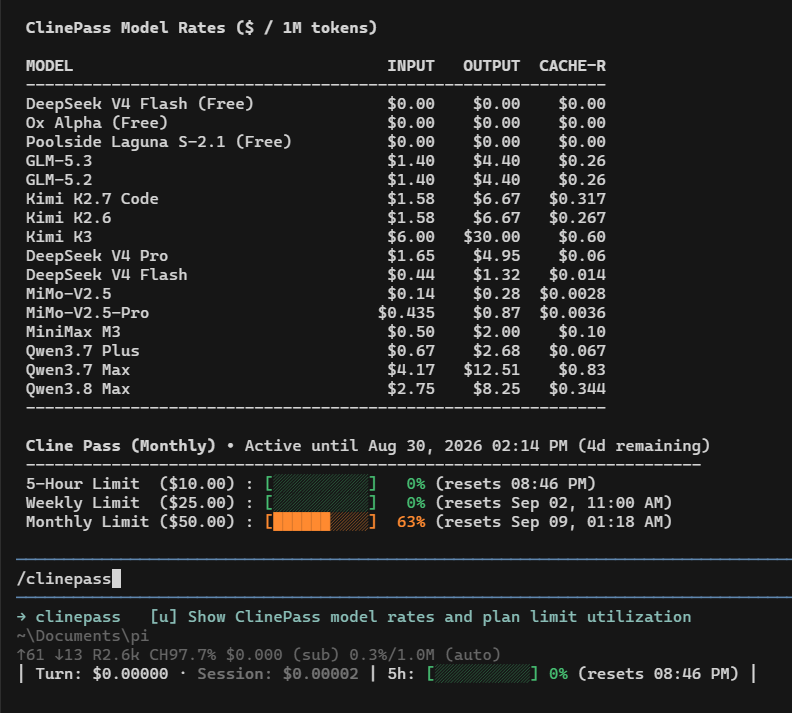
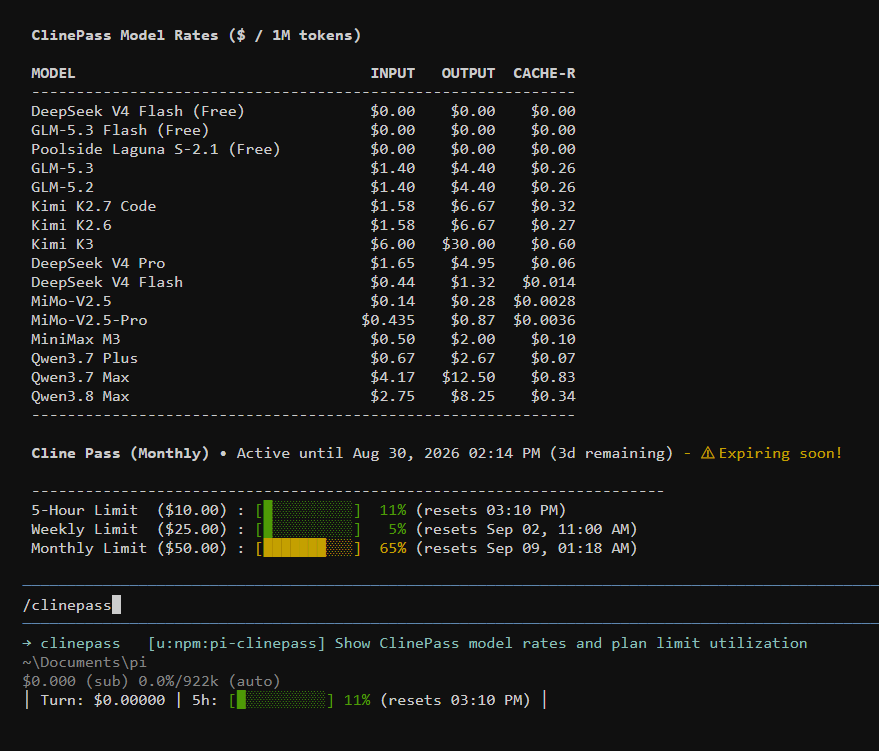
chore: sync catalog

Changed region(s): [[0.0, 0.5863, 1.0, 0.9565], [0.0303, 0.0309, 0.7879, 0.5554]]

diff --git a/src/catalog.ts b/src/catalog.ts
@@ -5,6 +5,10 @@
  * (verified against real usage), not the published reference table which
  * drifts from actual billing. `cacheWrite` is kept at 0: pi's cost model
  * requires the field, but we do not display or track cache-write pricing.
+ *
+ * Context is capped to 921,600 for models whose gateway reports ~1M
+ * (pool max, not single-node) to leave headroom; max output is capped to
+ * 131,072. Models under 1M keep their tested values.
  */
 
 export type ThinkingLevel = "off" | "minimal" | "low" | "medium" | "high" | "xhigh" | "max";
@@ -15,7 +19,7 @@ export interface ClinePassModel {
   id: string;
   name: string;
   reasoning: boolean;
-  input: readonly ["text"];
+  input: readonly ("text" | "image")[];
   cost: {
     input: number;
     output: number;
@@ -32,10 +36,10 @@ export interface ClinePassModel {
   };
 }
 
-/** All levels supported (off → "none"), minimal unsupported. */
-const FULL_THINKING: ThinkingLevelMap = {
+/** All 7 levels supported (off → "none"). Used when `supportedEfforts: null` + mandatory false. */
+const ALL_THINKING: ThinkingLevelMap = {
   off: "none",
-  minimal: null,
+  minimal: "minimal",
   low: "low",
   medium: "medium",
   high: "high",
@@ -43,10 +47,59 @@ const FULL_THINKING: ThinkingLevelMap = {
   max: "max",
 };
 
-/** ox-alpha requires reasoning upstream: off → null (unsupported). */
-const OX_ALPHA_THINKING: ThinkingLevelMap = {
-  ...FULL_THINKING,
+/** All levels except off (mandatory reasoning). Used when `mandatory: true` + `supportedEfforts: null`. */
+const ALL_MANDATORY: ThinkingLevelMap = {
   off: null,
+  minimal: "minimal",
+  low: "low",
+  medium: "medium",
+  high: "high",
+  xhigh: "xhigh",
+  max: "max",
+};
+
+/** Only max/high/low + off. Used for deepseek, glm-5.3, kimi-k3, free models. */
+const MAX_HIGH_LOW: ThinkingLevelMap = {
+  off: "none",
+  minimal: null,
+  low: "low",
+  medium: null,
+  high: "high",
+  xhigh: null,
+  max: "max",
+};
+
+/** Max/high/low but off not allowed (mandatory). */
+const MAX_HIGH_LOW_MANDATORY: ThinkingLevelMap = {
+  off: null,
+  minimal: null,
+  low: "low",
+  medium: null,
+  high: "high",
+  xhigh: null,
+  max: "max",
+};
+
+/** Only xhigh/high + off. Used for glm-5.2. */
+const XHIGH_HIGH: ThinkingLevelMap = {
+  off: "none",
+  minimal: null,
+  low: null,
+  medium: null,
+  high: "high",
+  xhigh: "xhigh",
+  max: null,
+};
+
+/** xhigh/medium/low + off. Used for qwen3.8-max. */
+const XHIGH_MEDIUM_LOW: ThinkingLevelMap = {
+  off: "none",
+  minimal: null,
+  low: "low",
+  medium: "medium",
+  high: null,
+  xhigh: "xhigh",
+  max: null,
 };
 
 /**
@@ -70,13 +123,14 @@ function model(
   cost: [input: number, output: number, cacheRead: number],
   contextWindow: number,
   maxTokens: number,
-  thinkingLevelMap: ThinkingLevelMap = FULL_THINKING,
+  input: readonly ("text" | "image")[] = ["text"],
+  thinkingLevelMap: ThinkingLevelMap = ALL_THINKING,
 ): ClinePassModel {
   return {
     id,
     name,
     reasoning: true,
-    input: ["text"],
+    input,
     cost: { input: cost[0], output: cost[1], cacheRead: cost[2], cacheWrite: 0 },
     contextWindow,
     maxTokens,
@@ -85,26 +139,26 @@ function model(
   };
 }
 
-/** Measured prices ($/1M tokens: input/output/cacheRead). */
+/** Measured prices ($/1M tokens: input/output/cacheRead) — latest verified. */
 export const MODELS: readonly ClinePassModel[] = [
   // ── Free models (Cline free tier, cost 0) ──────────────────────────────
-  model("deepseek/deepseek-v4-flash", "DeepSeek V4 Flash (Cline Free)", [0, 0, 0], 1_024_000, 384_000),
-  model("stealth/ox-alpha", "Ox Alpha (Cline Free)", [0, 0, 0], 1_048_576, 131_072, OX_ALPHA_THINKING),
-  model("poolside/laguna-s-2.1:free", "Poolside Laguna S-2.1 (Cline Free)", [0, 0, 0], 262_144, 32_768),
+  model("deepseek/deepseek-v4-flash", "DeepSeek V4 Flash (Cline Free)", [0, 0, 0], 921_600, 131_072, ["text", "image"], MAX_HIGH_LOW),
+  model("z-ai/glm-5.3-flash", "GLM-5.3 Flash (Cline Free)", [0, 0, 0], 921_600, 131_072, ["text", "image"], MAX_HIGH_LOW_MANDATORY),
+  model("poolside/laguna-s-2.1:free", "Poolside Laguna S-2.1 (Cline Free)", [0, 0, 0], 262_144, 131_072, ["text"], ALL_THINKING),
   // ── ClinePass models (measured billing prices) ─────────────────────────
-  model("cline-pass/glm-5.3", "GLM-5.3 (ClinePass)", [1.4, 4.4, 0.26], 1_048_576, 131_072),
-  model("cline-pass/glm-5.2", "GLM-5.2 (ClinePass)", [1.4, 4.4, 0.26], 1_048_576, 262_144),
-  model("cline-pass/kimi-k2.7-code", "Kimi K2.7 Code (ClinePass)", [1.58, 6.67, 0.317], 262_144, 262_144),
-  model("cline-pass/kimi-k2.6", "Kimi K2.6 (ClinePass)", [1.58, 6.67, 0.267], 262_144, 262_144),
-  model("cline-pass/kimi-k3", "Kimi K3 (ClinePass)", [6.0, 30.0, 0.6], 1_048_576, 1_048_576),
-  model("cline-pass/deepseek-v4-pro", "DeepSeek V4 Pro (ClinePass)", [1.65, 4.95, 0.06], 1_024_000, 384_000),
-  model("cline-pass/deepseek-v4-flash", "DeepSeek V4 Flash (ClinePass)", [0.44, 1.32, 0.014], 1_024_000, 384_000),
-  model("cline-pass/mimo-v2.5", "MiMo-V2.5 (ClinePass)", [0.14, 0.28, 0.0028], 1_048_576, 131_072),
-  model("cline-pass/mimo-v2.5-pro", "MiMo-V2.5-Pro (ClinePass)", [0.435, 0.87, 0.0036], 1_048_576, 131_072),
-  model("cline-pass/minimax-m3", "MiniMax M3 (ClinePass)", [0.5, 2.0, 0.1], 524_288, 512_000),
-  model("cline-pass/qwen3.7-plus", "Qwen3.7 Plus (ClinePass)", [0.67, 2.68, 0.067], 1_000_000, 131_072),
-  model("cline-pass/qwen3.7-max", "Qwen3.7 Max (ClinePass)", [4.17, 12.51, 0.83], 1_000_000, 131_072),
-  model("cline-pass/qwen3.8-max", "Qwen3.8 Max (ClinePass)", [2.75, 8.25, 0.344], 1_000_000, 131_072),
+  model("cline-pass/glm-5.3", "GLM-5.3 (ClinePass)", [1.4, 4.4, 0.26], 921_600, 131_072, ["text", "image"], MAX_HIGH_LOW_MANDATORY),
+  model("cline-pass/glm-5.2", "GLM-5.2 (ClinePass)", [1.4, 4.4, 0.26], 921_600, 131_072, ["text"], XHIGH_HIGH),
+  model("cline-pass/kimi-k2.7-code", "Kimi K2.7 Code (ClinePass)", [1.58, 6.67, 0.32], 262_144, 131_072, ["text", "image"], ALL_MANDATORY),
+  model("cline-pass/kimi-k2.6", "Kimi K2.6 (ClinePass)", [1.58, 6.67, 0.27], 262_144, 131_072, ["text", "image"], ALL_THINKING),
+  model("cline-pass/kimi-k3", "Kimi K3 (ClinePass)", [6.0, 30.0, 0.6], 921_600, 131_072, ["text", "image"], MAX_HIGH_LOW),
+  model("cline-pass/deepseek-v4-pro", "DeepSeek V4 Pro (ClinePass)", [1.65, 4.95, 0.06], 921_600, 131_072, ["text"], MAX_HIGH_LOW),
+  model("cline-pass/deepseek-v4-flash", "DeepSeek V4 Flash (ClinePass)", [0.44, 1.32, 0.014], 921_600, 131_072, ["text", "image"], MAX_HIGH_LOW),
+  model("cline-pass/mimo-v2.5", "MiMo-V2.5 (ClinePass)", [0.14, 0.28, 0.0028], 921_600, 131_072, ["text"], ALL_THINKING),
+  model("cline-pass/mimo-v2.5-pro", "MiMo-V2.5-Pro (ClinePass)", [0.435, 0.87, 0.0036], 921_600, 131_072, ["text"], ALL_THINKING),
+  model("cline-pass/minimax-m3", "MiniMax M3 (ClinePass)", [0.5, 2.0, 0.1], 921_600, 131_072, ["text", "image"], ALL_THINKING),
+  model("cline-pass/qwen3.7-plus", "Qwen3.7 Plus (ClinePass)", [0.67, 2.67, 0.07], 921_600, 131_072, ["text", "image"], ALL_THINKING),
+  model("cline-pass/qwen3.7-max", "Qwen3.7 Max (ClinePass)", [4.17, 12.5, 0.83], 921_600, 131_072, ["text"], ALL_THINKING),
+  model("cline-pass/qwen3.8-max", "Qwen3.8 Max (ClinePass)", [2.75, 8.25, 0.34], 921_600, 131_072, ["text"], XHIGH_MEDIUM_LOW),
 ];
 
 export function modelIds(): string[] {
@@ -113,5 +167,5 @@ export function modelIds(): string[] {
 
 /** True for the Cline free-tier models (cost 0). */
 export function isFreeModel(id: string): boolean {
-  return id.includes(":free") || id.includes("ox-alpha") || id === "deepseek/deepseek-v4-flash";
+  return id.includes(":free") || id === "z-ai/glm-5.3-flash" || id === "deepseek/deepseek-v4-flash";
 }

diff --git a/tests/catalog.test.ts b/tests/catalog.test.ts
@@ -12,7 +12,7 @@ describe("catalog", () => {
     const kimi = MODELS.find((m) => m.id === "cline-pass/kimi-k2.7-code");
     expect(kimi?.cost.input).toBe(1.58);
     expect(kimi?.cost.output).toBe(6.67);
-    expect(kimi?.cost.cacheRead).toBe(0.317);
+    expect(kimi?.cost.cacheRead).toBe(0.32);
 
     const k3 = MODELS.find((m) => m.id === "cline-pass/kimi-k3");
     expect(k3?.cost.input).toBe(6.0);
@@ -29,7 +29,7 @@ describe("catalog", () => {
   });
 
   it("marks free models correctly", () => {
-    expect(isFreeModel("stealth/ox-alpha")).toBe(true);
+    expect(isFreeModel("z-ai/glm-5.3-flash")).toBe(true);
     expect(isFreeModel("poolside/laguna-s-2.1:free")).toBe(true);
     expect(isFreeModel("deepseek/deepseek-v4-flash")).toBe(true);
     expect(isFreeModel("cline-pass/deepseek-v4-flash")).toBe(false);
@@ -40,12 +40,12 @@ describe("catalog", () => {
     expect(new Set(ids).size).toBe(ids.length);
   });
 
-  it("ox-alpha disables off thinking; others map off → none", () => {
-    const ox = MODELS.find((m) => m.id === "stealth/ox-alpha");
-    expect(ox?.thinkingLevelMap.off).toBeNull();
-    const glm = MODELS.find((m) => m.id === "cline-pass/glm-5.3");
-    expect(glm?.thinkingLevelMap.off).toBe("none");
-    expect(glm?.thinkingLevelMap.max).toBe("max");
+  it("glm-5.3-flash disables off thinking; others map off → none", () => {
+    const flash = MODELS.find((m) => m.id === "z-ai/glm-5.3-flash");
+    expect(flash?.thinkingLevelMap.off).toBeNull();
+    const plus = MODELS.find((m) => m.id === "cline-pass/qwen3.7-plus");
+    expect(plus?.thinkingLevelMap.off).toBe("none");
+    expect(plus?.thinkingLevelMap.max).toBe("max");
   });
 
   it("sets ClinePass compat on every model", () => {

diff --git a/CHANGELOG.md b/CHANGELOG.md
@@ -1,0 +1,19 @@
+# Changelog
+
+All notable changes to this project will be documented in this file.
+
+## 0.1.1 - 2026-08-27
+
+- Catalog: `stealth/ox-alpha` is now `z-ai/glm-5.3-flash` (renamed)
+- Context capped to 921600 for 1M models to avoid gateway edge
+- Max output capped to 131072 for code-friendly limits
+- Inputs updated per modalities (image where supported)
+- Thinking levels mapped per model spec
+- Prices adjusted to latest measured rates
+
+## 0.1.0 - 2026-08-26
+
+- Initial release
+- 16 models (13 paid, 3 free)
+- Server-truth billing meter and plan report
+- Login via Cline CLI, browser, or API key
